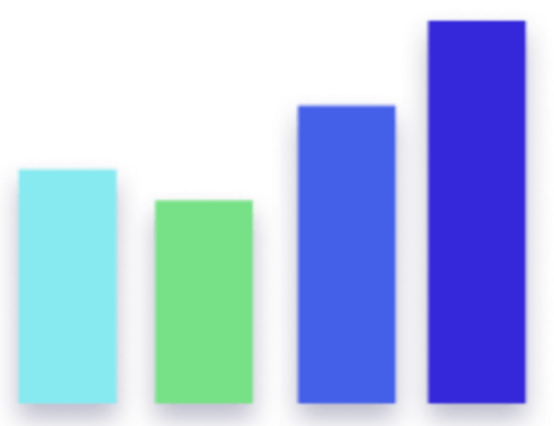
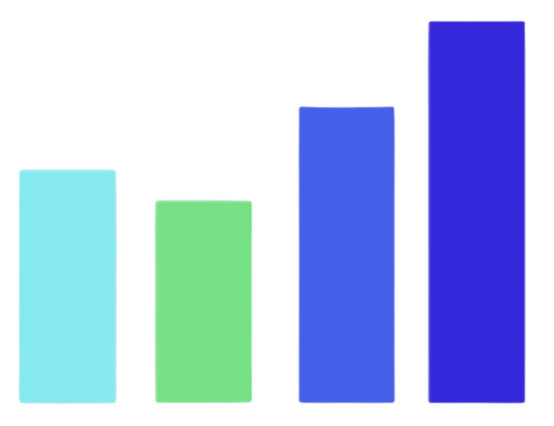
Added darkmode support for report page, changed chart images that were incompatible

Changed region(s): [[0.5217, 0.0305, 0.9819, 1.0], [0.0, 0.3967, 0.491, 1.0]]

diff --git a/Pages/report.php b/Pages/report.php
@@ -7,13 +7,13 @@
     <title>Document</title>
     <script src="https://cdn.tailwindcss.com"></script>
 </head>
-<body>
+<body class="dark:bg-black">
     <span class="sticky top-0 z-50 bg-white" >
-        <img src="../Media/iPhone 13.png" class="w12 bg-white">
+        <img src="../Media/iPhone 13.png" class="w12 bg-white dark:bg-black">
     </span>
     <span class="flex px-10 pt-8 pb-2 items-center justify-between ">
         <div>
-            <h1 class="text-4xl font-extrabold leading-8">Dave<br>Mason</h1>
+            <h1 class="text-4xl font-extrabold leading-8 dark:text-white">Dave<br>Mason</h1>
         </div>
         <div class="items-center ">
             <img src="../Media/picprofile-round-1.png" class="">
@@ -26,25 +26,25 @@
 
     <span class="flex px-6 py-3 items-center mx-5 justify-between rounded-lg ">
         <div>
-            <h4 class=" font-bold text-center leading-4" >TRACK</h4>
-            <h5 class=" font-bold text-center text-sm text-slate-500 leading-3">Muscles/Nerves activity<h5>
+            <h4 class=" font-bold text-center leading-4 dark:text-white">TRACK</h4>
+            <h5 class=" font-bold text-center text-sm text-slate-500 leading-3 ">Muscles/Nerves activity<h5>
         </div>
         <div>
-            <h4 class="font-bold text-center leading-4" >WORK CAPACITY</h4>
-            <h5 class="font-bold text-center text-sm text-slate-500 leading-3"> Acceptable: 92%</h5>
+            <h4 class="font-bold text-center leading-4 dark:text-white">WORK CAPACITY</h4>
+            <h5 class="font-bold text-center text-sm text-slate-500 leading-3 "> Acceptable: 92%</h5>
         </div>
     </span>
     
     <span class="flex pl-10 pr-5 my-10 mx-5  items-center justify-between rounded-lg ">
         <div>
-            <h4 class="font-bold leading-5 text-xl mb-1" >Work <br> Capacity</h4>
+            <h4 class="font-bold leading-5 text-xl mb-1 dark:text-white" >Work <br> Capacity</h4>
             <h5 class=" w-28 font-bold  text-sm text-slate-500 leading-3">This is a fake text with fake data and stuff</h5>
         </div>
 
         <div>
-            <img src="../Media/Charts/work capacity 1.png" class="myDonuts  w-36 h-auto">
-            <img src="../Media/Charts/PULSE index 1.png" class="myDonuts hidden w-36 h-auto">
-            <img src="../Media/Charts/donut.png" class="myDonuts hidden w-36 h-auto ">
+            <img src="../Media/Charts/chart1.png" class="myDonuts  w-36 h-36">
+            <img src="../Media/Charts/PULSE_index_1.png" class="myDonuts hidden w-36 h-36">
+            <img src="../Media/Charts/donut.png" class="myDonuts hidden w-36 h-36 ">
             <div class="items-center justify-center flex pt-6">
                 <span onclick="currentDonut(1)" id="firstDots" class="dotDonuts bg-zinc-800 rounded-full w-2 h-2 mx-2 "></span>
                 <span onclick="currentDonut(2)" class="dotDonuts bg-zinc-800 rounded-full w-2 h-2 mx-2"></span>
@@ -54,14 +54,14 @@
         
     </span>
     
-    <span class="flex pl-10 pr-5 my-10 mx-5 py-6  items-center justify-between rounded-lg ">
+    <span class="flex pl-10 pr-5 my-10 mx-5 py-6  items-center justify-between rounded-lg">
         <div class="">
-            <h4 class=" font-bold leading-5 text-xl mb-1" >PULSE <br> Index</h4>
+            <h4 class=" font-bold leading-5 text-xl mb-1 dark:text-white" >PULSE <br> Index</h4>
             <h5 class=" w-28 font-bold  text-sm text-slate-500 leading-3 ">Muscles/Nerves <br> activity and fake <br> data and stuff</h5>
         </div>
         <div>
-            <img src="../Media/Charts/column_chart.png" class=" myColumns w-36 h-auto">
-            <img src="../Media/Charts/column_chart_2.png" class=" myColumns hidden w-36 h-auto">
+            <img src="../Media/Charts/column_chart.png" class=" myColumns w-36 h-36">
+            <img src="../Media/Charts/column_chart_2.png" class=" myColumns hidden w-36 h-36">
             <div class="items-center justify-center flex pt-6">
                 <span onclick="currentColumns(1)" id="firstDots" class="dotColumns bg-zinc-800 rounded-full w-2 h-2 mx-2"></span>
                 <span onclick="currentColumns(2)" class="dotColumns bg-zinc-800 rounded-full w-2 h-2 mx-2"></span>

diff --git a/Pages/host.php b/Pages/host.php
@@ -1,0 +1,13 @@
+<?php
+$host = 'localhost';
+$db   = 'PULSEDB';
+$user = 'root';
+$pass = '';
+$charset = 'utf8mb4';
+
+try {
+    $pdo = new PDO("mysql:host=$host;dbname=$db;charset=$charset", $user, $pass);
+    $pdo->setAttribute(PDO::ATTR_ERRMODE, PDO::ERRMODE_EXCEPTION);
+} catch (PDOException $e) {
+    echo "DB Connection failed" . $e->getMessage();
+}
